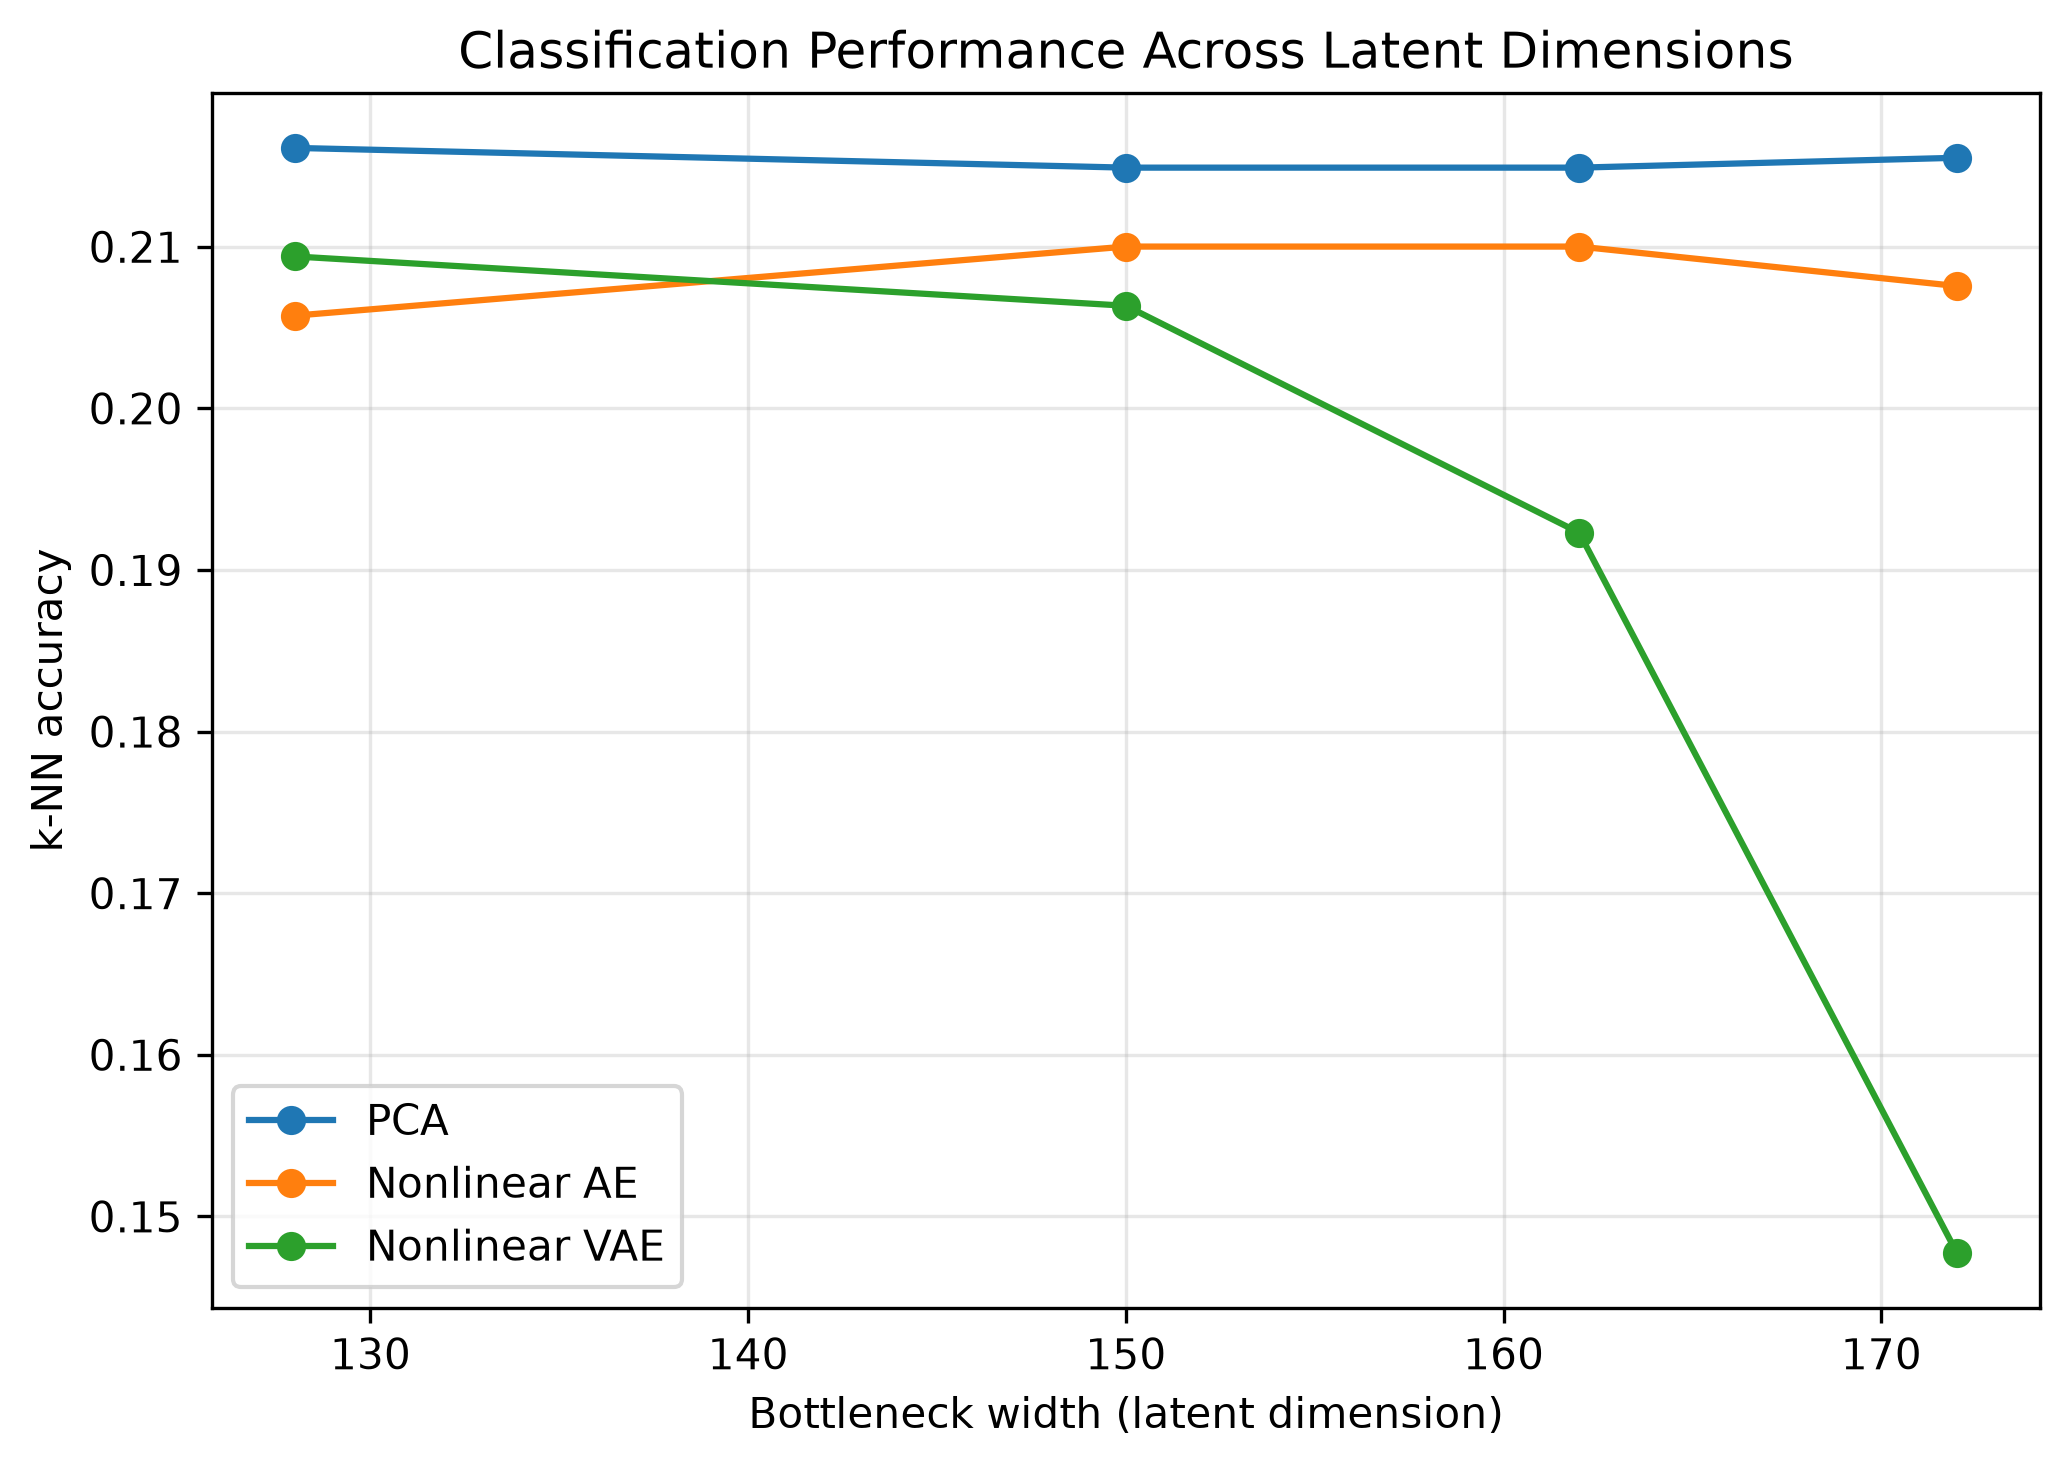
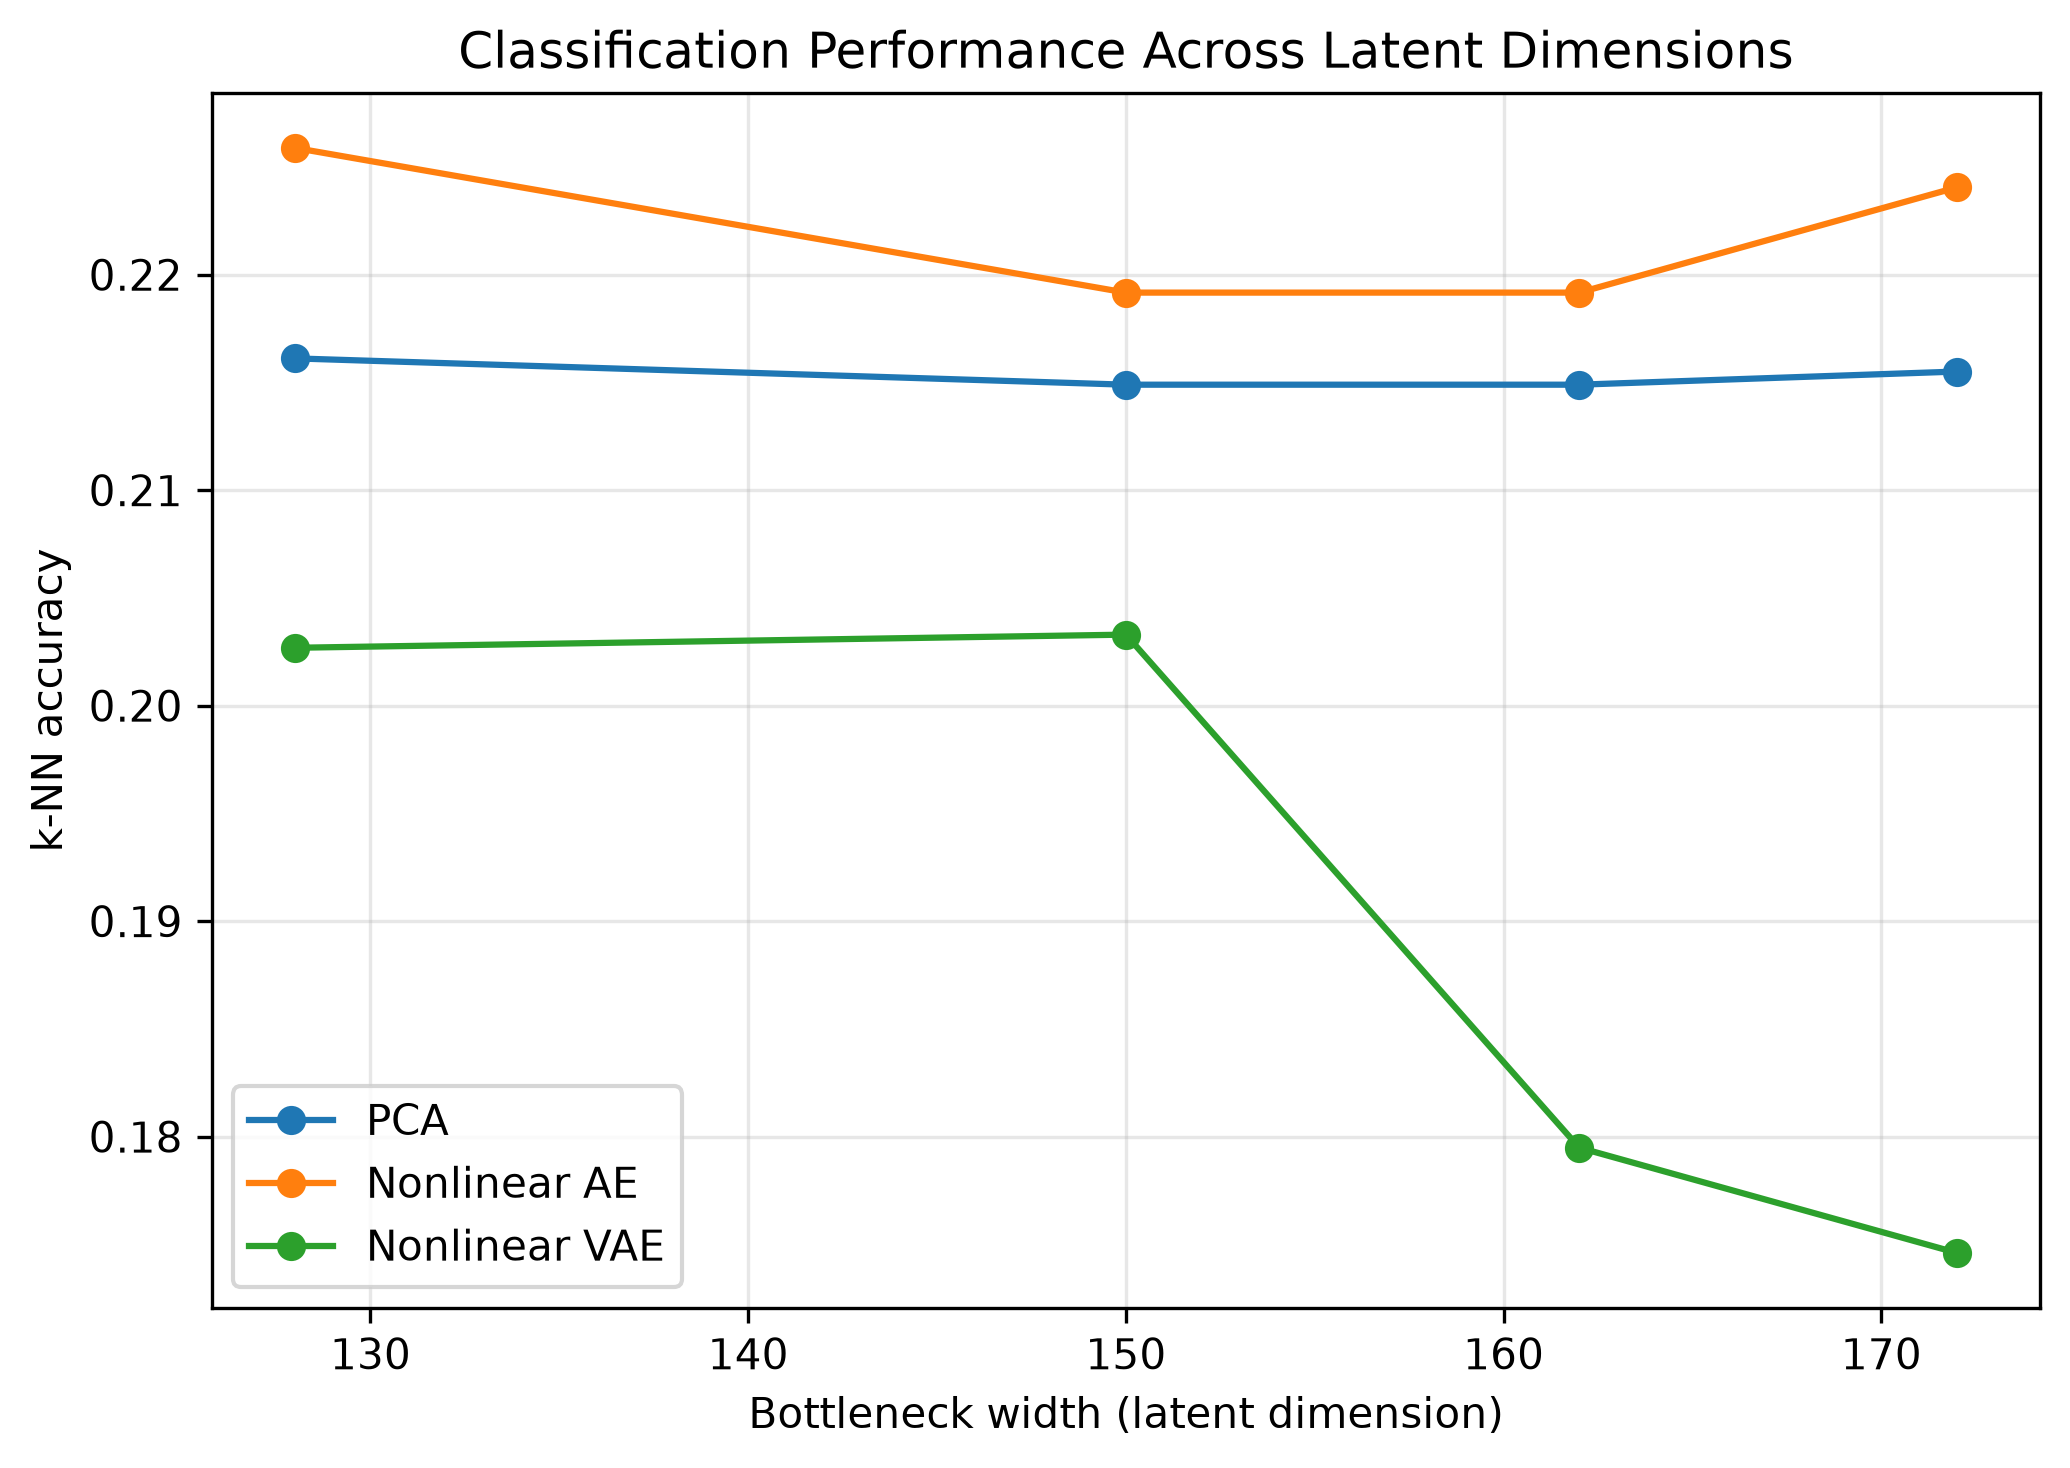
added mutiple seeds functionality and aggregation

diff --git a/src/experiments/run_image_experiment.py b/src/experiments/run_image_experiment.py
@@ -13,7 +13,7 @@ from torch.utils.data import ConcatDataset
 
 from src.metrics.knn import find_best_neighbors
 from src.plotting.plot_results import plot_knn_results, plot_reconstruction_results
-
+from src.utils import aggregate_seed_results
 
 activation_functions = {
     "ReLU": nn.ReLU,
@@ -26,7 +26,7 @@ activation_functions = {
 def get_dataset_records():
     return merged_specs(Path("../databank/image_datasets.yaml"))
 
-def execute_image(dataset_name: str, bottleneck_range: list, transform:bool = None, hpo_latent:int=32, plot_path="./results" ):
+def execute_image(dataset_name: str, bottleneck_range: list, transform:bool = None, hpo_latent:int=32, seeds=[42], plot_path="./results" ):
     specs = get_dataset_records()
 
     if dataset_name not in list(specs):
@@ -38,7 +38,7 @@ def execute_image(dataset_name: str, bottleneck_range: list, transform:bool = No
     print(f"Expected classes: {spec['expected_classes']}")
     print(f"Samples: {spec['samples_to_load']}")
 
-    print("step 1/9 : Fetching the dataset..")
+    print("step 1/10 : Fetching the dataset..")
 
     dataset_mapping = get_dataset_mapping(dataset_name=dataset_name)
     trf = None
@@ -61,7 +61,7 @@ def execute_image(dataset_name: str, bottleneck_range: list, transform:bool = No
         test_dataset
     ])
 
-    print("step 2/9 : preprocessing and splitting the dataset..")
+    print("step 2/10 : preprocessing and splitting the dataset..")
     prep_data = preprocess_torchvision_dataset(
         dataset=full_dataset,
         max_samples=spec["samples_to_load"],
@@ -82,7 +82,7 @@ def execute_image(dataset_name: str, bottleneck_range: list, transform:bool = No
 
     print("split shape: X_train, X_val, X_test, X_train_val ",X_train.shape, X_val.shape, X_test.shape, X_train_val.shape)
 
-    print(f"step 3/9 Tuning Autoencoder for the latent dimension: {hpo_latent}")
+    print(f"step 3/10 Tuning Autoencoder for the latent dimension: {hpo_latent}")
     study_ae = create_study_ae(
         X_train_tensor,
         X_val_tensor,
@@ -92,7 +92,7 @@ def execute_image(dataset_name: str, bottleneck_range: list, transform:bool = No
         study_name="autoencoder_HPO_mfeat_analysis"
     )
     print(f"Best parameters of Autencoder - {study_ae.best_params}")
-    print(f"step 4/9 Tuning Variational Autoencoder for the latent dimension: {hpo_latent}")
+    print(f"step 4/10 Tuning Variational Autoencoder for the latent dimension: {hpo_latent}")
         
     study_vae = create_study_vae(
         X_train_tensor,
@@ -105,7 +105,7 @@ def execute_image(dataset_name: str, bottleneck_range: list, transform:bool = No
     print(f"Best parameters of Variational Autencoder - {study_vae.best_params}")
 
 
-    print("step 5/9 Finding best neighbors")
+    print("step 5/10 Finding best neighbors")
     best_neighbors, best_val_score = find_best_neighbors(
         X_train=X_train,
         y_train=y_train,
@@ -118,9 +118,9 @@ def execute_image(dataset_name: str, bottleneck_range: list, transform:bool = No
 
     input_dim = X_train_val_tensor.shape[1]
 
-    print("step 6/9 Running PCA")
+    print("step 6/10 Running PCA")
 
-    pca_results = run_sweep(
+    pca_raw_results = run_sweep(
             model_type="pca",
             dimensions=bottleneck_range,
     
@@ -132,10 +132,12 @@ def execute_image(dataset_name: str, bottleneck_range: list, transform:bool = No
             n_neighbors=best_neighbors
         )
 
-    print("step 7/9 Running AE")
-    ae_results = run_sweep(
+    print("step 7/10 Running AE")
+
+    ae_raw_results = run_sweep(
         model_type="ae",
         dimensions=bottleneck_range,
+        seeds=seeds,
         input_dim=input_dim,
         X_train_val_tensor=X_train_val_tensor,
         X_test_tensor=X_test_tensor,
@@ -147,10 +149,12 @@ def execute_image(dataset_name: str, bottleneck_range: list, transform:bool = No
         epochs=400
     )
 
-    print("step 8/9 Running VAE")
-    vae_results = run_sweep(
+    print("step 8/10 Running VAE")
+
+    vae_raw_results = run_sweep(
         model_type="vae",
         dimensions=bottleneck_range,
+        seeds=seeds,
         input_dim=input_dim,
         X_train_val_tensor=X_train_val_tensor,
         X_test_tensor=X_test_tensor,
@@ -162,7 +166,22 @@ def execute_image(dataset_name: str, bottleneck_range: list, transform:bool = No
         epochs=400
     )
 
-    print("step 9/9 saving results")
+    print("Step 9/10 Aggregating seed results...")
+
+    pca_results = aggregate_seed_results(
+        pca_raw_results
+    )
+
+    ae_results = aggregate_seed_results(
+        ae_raw_results
+    )
+
+    vae_results = aggregate_seed_results(
+        vae_raw_results
+    )
+
+    print("step 10/10 Plotting and saving results")
+
     plot_reconstruction_results(
         pca_results=pca_results,
         ae_results=ae_results,
@@ -173,7 +192,7 @@ def execute_image(dataset_name: str, bottleneck_range: list, transform:bool = No
         pca_results=pca_results,
         ae_results=ae_results,
         vae_results=vae_results,
-        output_dir = plot_path
+        output_dir=plot_path
     )
 
     

diff --git a/src/experiments/evaluate_dimensions.py b/src/experiments/evaluate_dimensions.py
@@ -7,6 +7,7 @@ from src.training.train_vae import train_final_model_vae
 from src.training.train import train_final_model
 from src.metrics.knn import compute_knn_score
 from src.hpo.hidden_dims import build_hidden_dims_geo
+from src.utils import set_seed
 
 
 
@@ -63,8 +64,7 @@ def evaluate_ae_dimension(
     seed=42
 ):
 
-    torch.manual_seed(seed)
-    np.random.seed(seed)
+    set_seed(seed)
 
     hidden_dims = build_hidden_dims_geo(
         input_dim=input_dim,
@@ -132,8 +132,7 @@ def evaluate_vae_dimension(
             f"Latent dimension {k} must be smaller than input dimension {input_dim}"
         )
 
-    torch.manual_seed(seed)
-    np.random.seed(seed)
+    set_seed(seed)
 
     if torch.cuda.is_available():
         torch.cuda.manual_seed_all(seed)
@@ -187,42 +186,41 @@ def evaluate_vae_dimension(
         "test_reconstruction": test_reconstruction,
         "test_kl": test_kl
     }
-      
+
 def run_sweep(
     model_type,
     dimensions,
+    seeds=(42,),
     **kwargs
 ):
-
     results = []
 
     for k in dimensions:
+        for seed in seeds:
+            if model_type == "pca":
+                result = evaluate_pca_dimension(
+                    k=k,
+                    **kwargs
+                )
+                result["seed"] = seed
 
-        if model_type == "pca":
-            result = evaluate_pca_dimension(
-                k=k,
-                **kwargs
-            )
+            elif model_type == "ae":
+                result = evaluate_ae_dimension(
+                    k=k,
+                    seed=seed,
+                    **kwargs
+                )
 
-        elif model_type == "ae":
-            result = evaluate_ae_dimension(
-                k=k,
-                **kwargs
-            )
-
-        elif model_type == "vae":
-            result = evaluate_vae_dimension(
-                k=k,
-                **kwargs
-            )
-
-        else:
-            raise ValueError(
-                f"Unknown model type: {model_type}"
-            )
-
-        results.append(result)
-
-        print(result)
-
+            elif model_type == "vae":
+                result = evaluate_vae_dimension(
+                    k=k,
+                    seed=seed,
+                    **kwargs
+                )
+            else:
+                raise ValueError(
+                    f"Unknown model type: {model_type}"
+                )
+            results.append(result)
+            print(result)
     return results

diff --git a/src/utils.py b/src/utils.py
@@ -1,0 +1,57 @@
+import random
+import numpy as np
+import torch
+
+def set_seed(seed = 42):
+    random.seed(seed)
+    np.random.seed(seed)
+
+    torch.manual_seed(seed)
+
+    if torch.cuda.is_available():
+        torch.cuda.manual_seed(seed)
+        torch.cuda.manual_seed_all(seed)
+
+    # More deterministic CUDA behaviour
+    torch.backends.cudnn.deterministic = True
+    torch.backends.cudnn.benchmark = False
+
+
+import numpy as np
+
+
+def aggregate_seed_results(results):
+    aggregated = []
+
+    dimensions = sorted(
+        set(result["dimension"] for result in results)
+    )
+
+    for dimension in dimensions:
+        dimension_results = [
+            result
+            for result in results
+            if result["dimension"] == dimension
+        ]
+        aggregated_result = {
+            "dimension": dimension
+        }
+        keys = [
+            key
+            for key in dimension_results[0].keys()
+            if key not in ["dimension", "seed"]
+        ]
+
+        for key in keys:
+
+            values = [
+                result[key]
+                for result in dimension_results
+            ]
+
+            aggregated_result[key] = np.mean(values)
+            aggregated_result[f"{key}_std"] = np.std(values)
+
+        aggregated.append(aggregated_result)
+
+    return aggregated

diff --git a/src/hpo/vae_autoencoder_hpo.py b/src/hpo/vae_autoencoder_hpo.py
@@ -6,6 +6,7 @@ import optuna
 from src.models.VAE import VariationalAutoencoder
 from src.hpo.hidden_dims import build_hidden_dims_geo
 from src.training.train_vae import train_vae
+from src.utils import set_seed
 
 
 def objective_vae(
@@ -17,8 +18,7 @@ def objective_vae(
 ):
     seed = 42
 
-    torch.manual_seed(seed)
-    np.random.seed(seed)
+    set_seed(seed)
 
     # =========================
     # Hyperparameters
